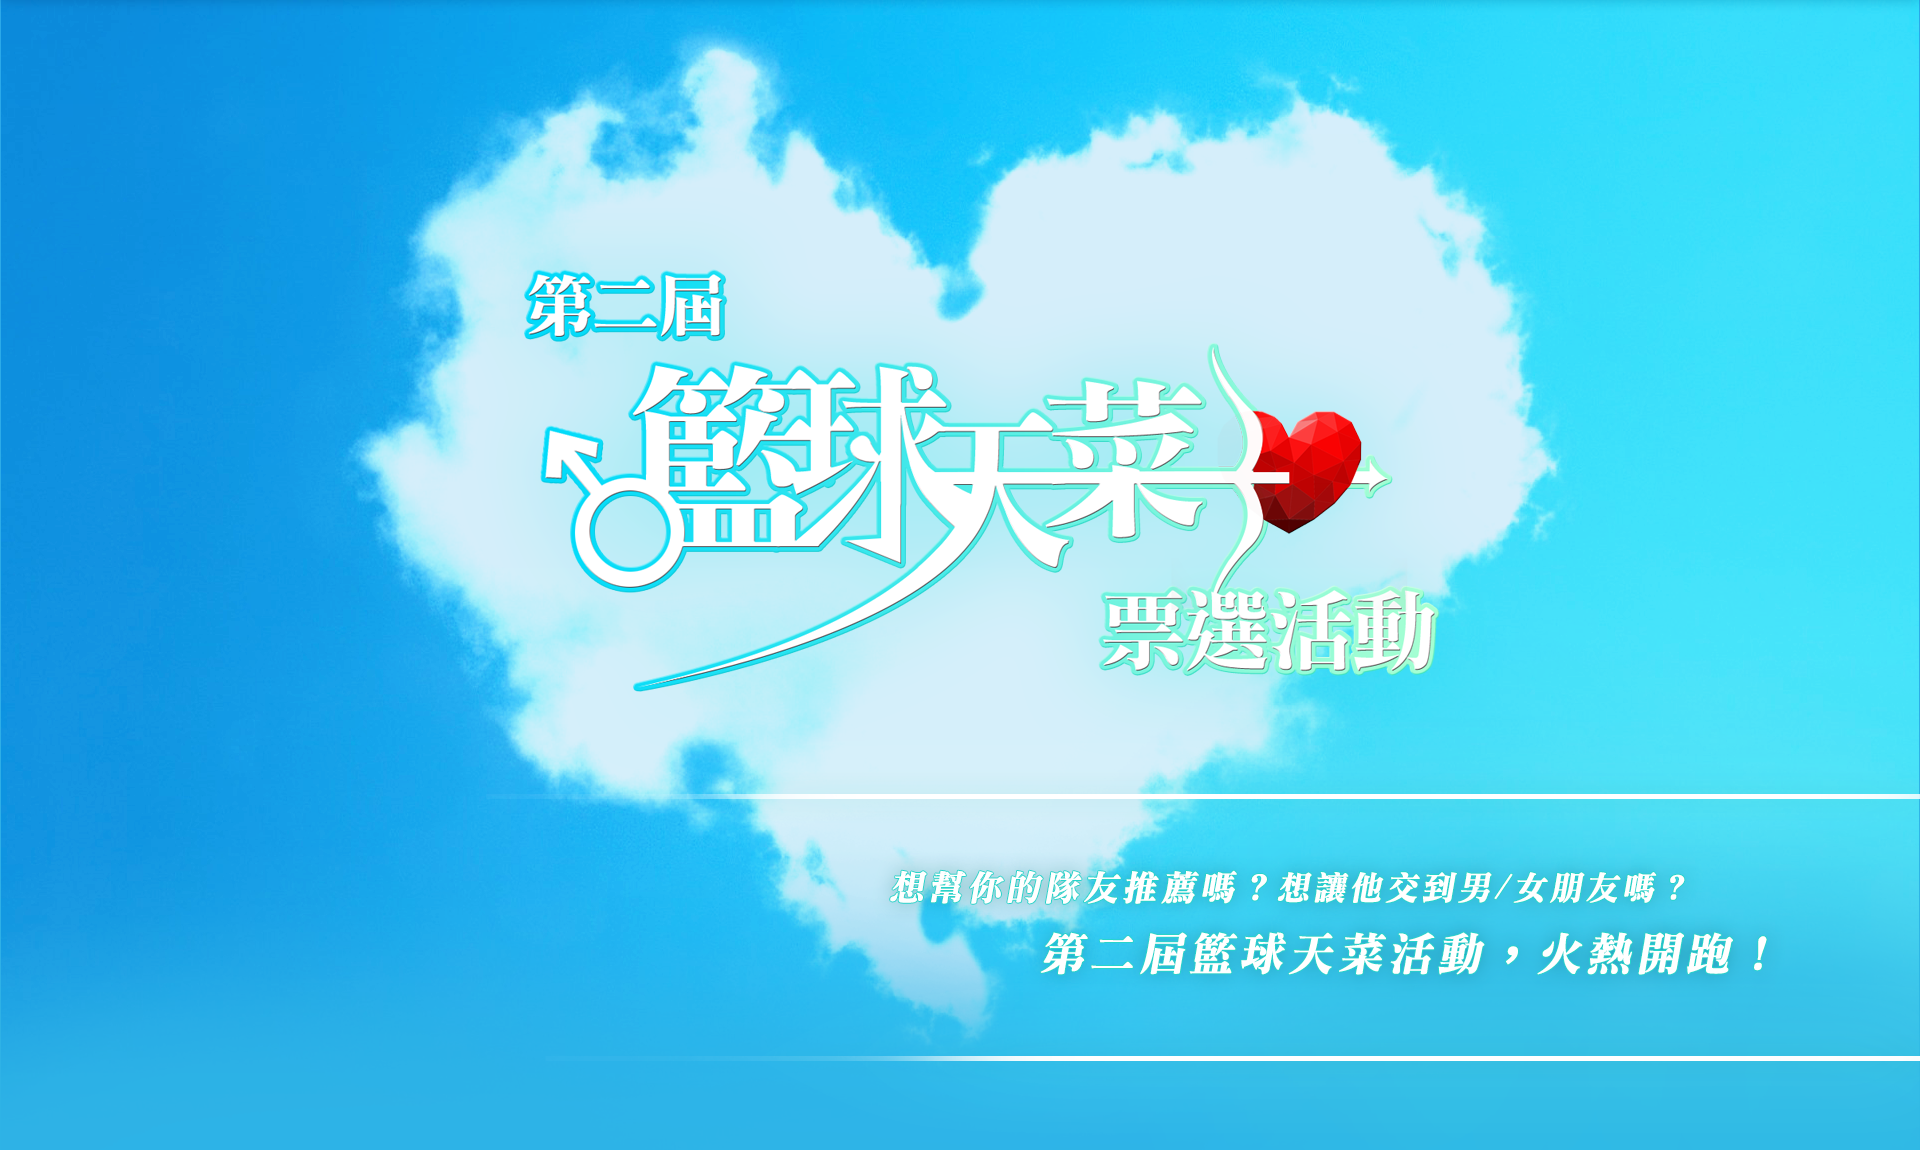
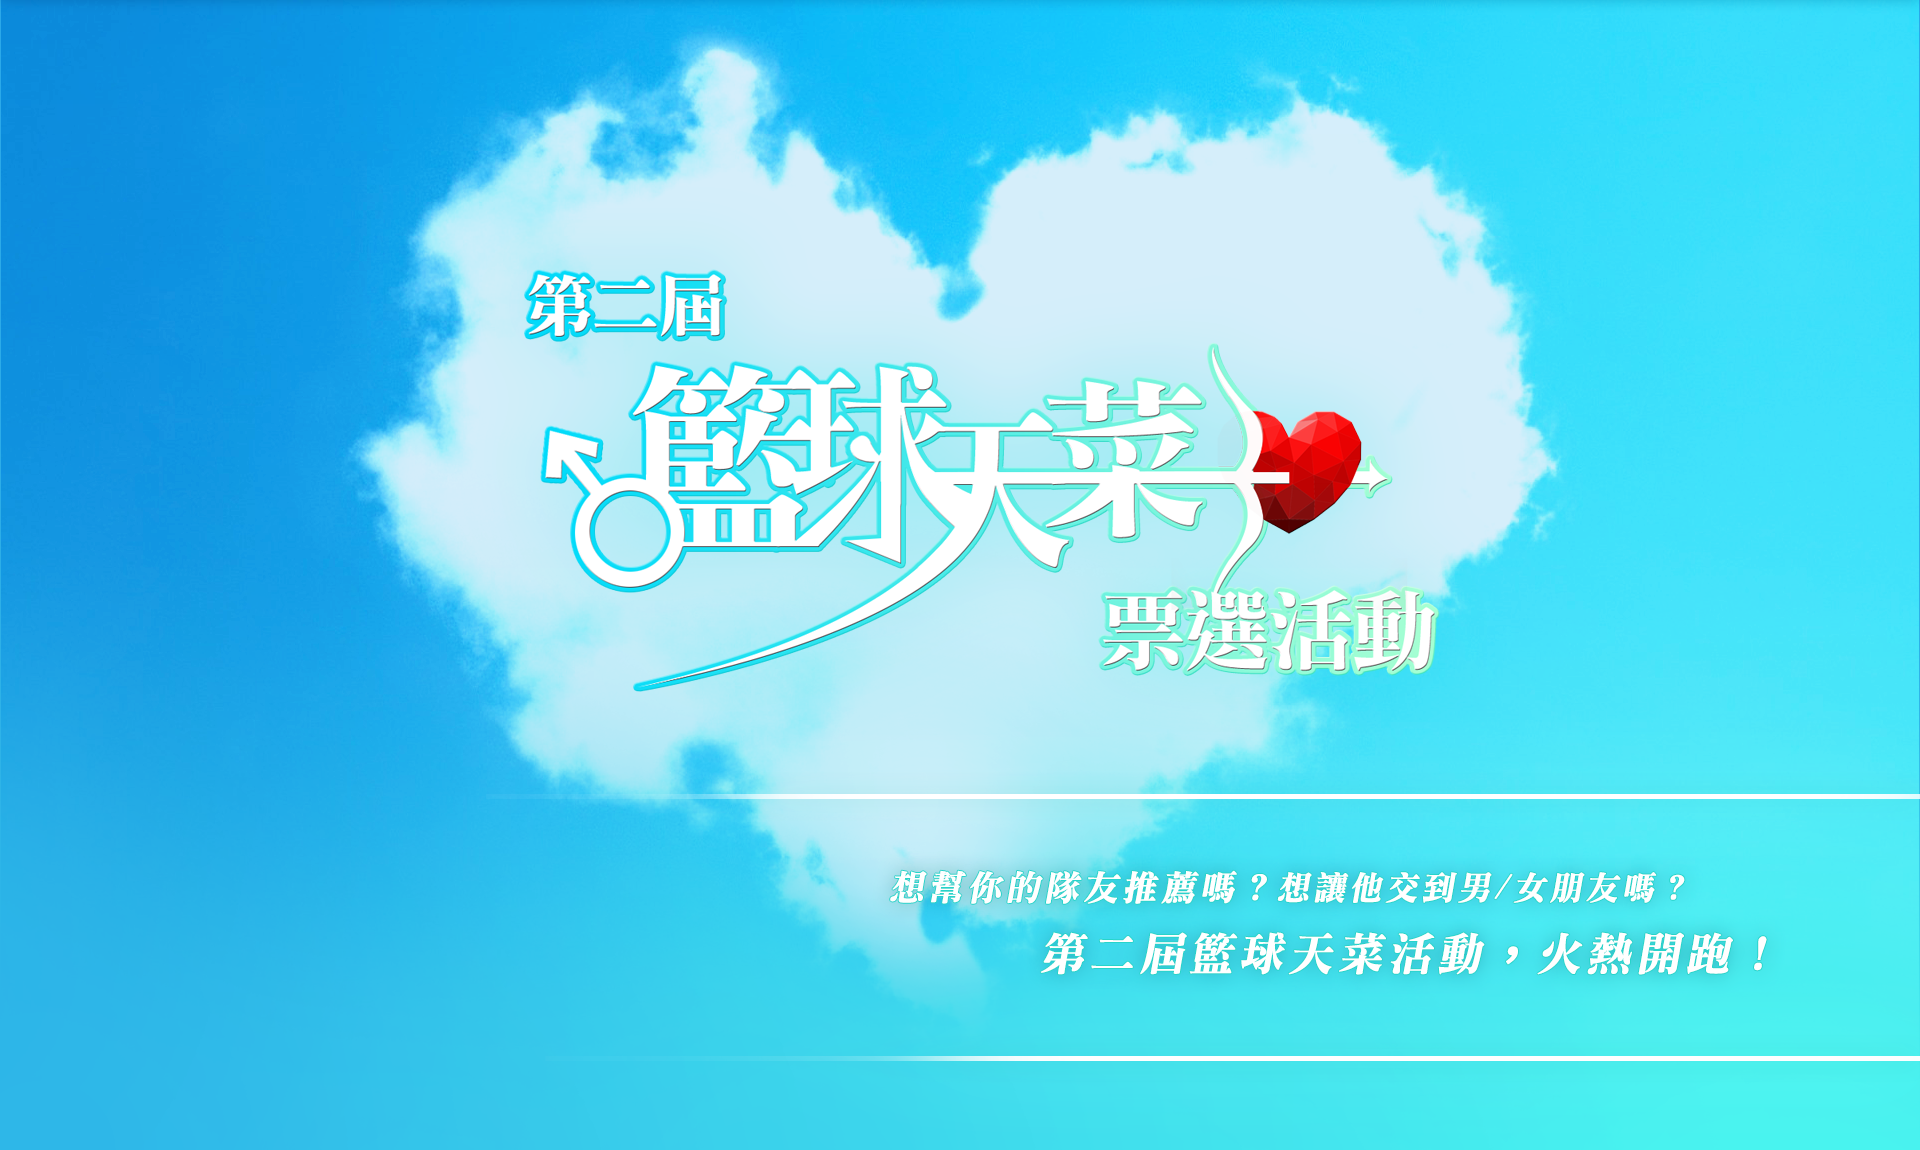
update hbl-vote相關頁面

Changed region(s): [[0.25, 0.5783, 1.0, 1.0], [0.0, 0.6696, 0.0625, 0.8217]]

diff --git a/hbl-vote/winner.html b/hbl-vote/winner.html
@@ -76,17 +76,17 @@
             <p>活動主旨：票選出你心目中的第一名，用你的力量，為他們應援打氣吧！</p>
             <p>活動時間：3/28 ~ 4/15</p>
             <p>活動獎品：1. 凡參加預測活動者，將抽出5位贈送：</p>
-            <p class="blank"> MOLTEN籃球、VEGA籃球運動襪及熊讚好禮。</p>
-            <p class="blank" style="font-size:23px">2. 成功預測男女冠軍隊伍者，加碼各抽出2名贈送ASICS亞瑟士相關商品！
+            <p class="blank"> MOLTEN 籃球、 VEGA 籃球運動襪及熊讚好禮。</p>
+            <p class="blank" style="font-size:23px">2. 成功預測男女冠軍隊伍者，加碼各抽出2名贈送 ASICS 亞瑟士相關商品！
             </p>
-            <p>投票方式：每個FB帳號一天限投1票，每天可投一次。</p>
+            <p>投票方式：每個 FB 帳號一天限投1票，每天可投一次。</p>
             <p>開獎時間：4/25</p>
         </div>
         <div class="content-phone">
-            <p class="before">活動主旨：票選出你心目中的第一名，用你的力量，為他們應援打氣吧！</p>
+            <p class="before">活動主旨：</p><p>票選出你心目中的第一名，用你的力量，為他們應援打氣吧！</p>
             <p class="before">活動時間：3/28 ~ 4/15</p>
-            <p class="before">活動獎品：1. 凡參加預測活動者，將抽出5位贈送MOLTEN籃球、VEGA籃球運動襪及熊讚好禮。2. 成功預測男女冠軍隊伍者，加碼各抽出2名贈送ASICS亞瑟士相關商品！</p>
-            <p class="before">投票方式：每個FB帳號一天限投1票，每天可投一次。</p>
+            <p class="before">活動獎品： </p><p>1. 凡參加預測活動者，將抽出 5 位贈送 MOLTEN 籃球、 VEGA 籃球運動襪及熊讚好禮。</p><p>2. 成功預測男女冠軍隊伍者，加碼各抽出 2 名贈送 ASICS 亞瑟士相關商品！</p>
+            <p class="before">投票方式：</p><p>每個FB帳號一天限投 1 票，每天可投一次。</p>
             <p class="before">開獎時間：4/25</p>
         </div>
         <div class="text">
@@ -98,14 +98,13 @@
                 <div class="img">
                     <div class="fb-like" data-href="https://www.facebook.com/happytv.com.tw/" data-layout="button_count" data-action="like" data-size="large" data-show-faces="true" data-share="true"></div>
                 </div>
-                <p>Step 2. HappyTV YouTube 追蹤+開鈴鐺</p>
+                <p>Step 2. HappyTV YouTube 追蹤 + 開鈴鐺</p>
                 <div class="img">
                     <a href="http://www.youtube.com/channel/UCvKez7HK8fOyCMPh2TN0hvQ?sub_confirmation=1" target='_blank'>
                         <img src="images/youtube_01.png">
                     </a>
                 </div>
-                <p >Step 3. 點選自己想應援打氣的隊伍，為他們分享集氣並按下送出，</p>
-                   <p class="blank">即完成投票步驟。</p>
+                <p >Step 3. 點選自己想應援打氣的隊伍，為他們分享集氣並按下送出，即完成投票步驟。</p>
             </div>
         </div>
         <div class="fb-button" onclick='loginFacebook()'>
@@ -153,7 +152,7 @@
             </div>
             <div class="vote-box">
                 <div class="img-box">
-                    <img src="images/winner-boy_04.JPG">
+                    <img src="images/winner-boy_04.jpg">
                 </div>
                 <div class="text-wrapper">
                     <p>4. 海星高中</p>
@@ -165,7 +164,7 @@
             </div>
             <div class="vote-box">
                 <div class="img-box">
-                    <img src="images/winner-boy_05.JPG">
+                    <img src="images/winner-boy_05.jpg">
                 </div>
                 <div class="text-wrapper">
                     <p>5. 慧燈高中</p>
@@ -177,7 +176,7 @@
             </div>
             <div class="vote-box">
                 <div class="img-box">
-                    <img src="images/winner-boy_06.JPG">
+                    <img src="images/winner-boy_06.jpg">
                 </div>
                 <div class="text-wrapper">
                     <p>6. 興華高中</p>
@@ -189,7 +188,7 @@
             </div>
             <div class="vote-box">
                 <div class="img-box">
-                    <img src="images/winner-boy_07.JPG">
+                    <img src="images/winner-boy_07.jpg">
                 </div>
                 <div class="text-wrapper">
                     <p>7. 醒吾高中</p>
@@ -201,7 +200,7 @@
             </div>
             <div class="vote-box">
                 <div class="img-box">
-                    <img src="images/winner-boy_08.JPG">
+                    <img src="images/winner-boy_08.jpg">
                 </div>
                 <div class="text-wrapper">
                     <p>8. 善化高中</p>
@@ -260,7 +259,7 @@
             </div>
             <div class="vote-box">
                 <div class="img-box">
-                    <img src="images/winner-girl_04.jpg">
+                    <img src="images/winner-girl_04.JPG">
                 </div>
                 <div class="text-wrapper">
                     <p>4. 桃市陽明</p>

diff --git a/hbl-vote/css/favorite-star.css b/hbl-vote/css/favorite-star.css
@@ -20,12 +20,12 @@ p {
 }
 
 body {
-/* Permalink - use to edit and share this gradient: http://colorzilla.com/gradient-editor/#2db4e8+35,4aeecd+100 */
+/* Permalink - use to edit and share this gradient: http://colorzilla.com/gradient-editor/#2db4e8+0,4efcf0+100 */
 background: #2db4e8; /* Old browsers */
-background: -moz-linear-gradient(-45deg, #2db4e8 35%, #4aeecd 100%); /* FF3.6-15 */
-background: -webkit-linear-gradient(-45deg, #2db4e8 35%,#4aeecd 100%); /* Chrome10-25,Safari5.1-6 */
-background: linear-gradient(135deg, #2db4e8 35%,#4aeecd 100%); /* W3C, IE10+, FF16+, Chrome26+, Opera12+, Safari7+ */
-filter: progid:DXImageTransform.Microsoft.gradient( startColorstr='#2db4e8', endColorstr='#4aeecd',GradientType=1 ); /* IE6-9 fallback on horizontal gradient */
+background: -moz-linear-gradient(left, #2db4e8 0%, #4efcf0 100%); /* FF3.6-15 */
+background: -webkit-linear-gradient(left, #2db4e8 0%,#4efcf0 100%); /* Chrome10-25,Safari5.1-6 */
+background: linear-gradient(to right, #2db4e8 0%,#4efcf0 100%); /* W3C, IE10+, FF16+, Chrome26+, Opera12+, Safari7+ */
+filter: progid:DXImageTransform.Microsoft.gradient( startColorstr='#2db4e8', endColorstr='#4efcf0',GradientType=1 ); /* IE6-9 */
 }
 
 
@@ -115,14 +115,14 @@ display: none;
 
 
 .text .title {
-    padding-left: 85px;
+    padding-left: 100px;
     width: 100%;
 }
 
 
 .text .title p {
-    font-size: 40px;
-    font-style: italic;
+    font-size: 37px;
+    font-style: italic;;
     color: white;
     letter-spacing: 3px;
 }
@@ -149,12 +149,11 @@ display: none;
 
 
 .text .way p {
-    font-size: 35px;
+    font-size: 28px;
     color: white;
     font-weight: 500;
     letter-spacing: 3px;
     line-height: 70px;
-    font-style: italic;
     display: inline-block;
 }
 
@@ -171,6 +170,13 @@ display: none;
 .text .blank {
     padding-left: 155px;
 }
+
+.text .blank2 {
+    padding-left: 125px;
+}
+
+
+
 
 
 
@@ -282,14 +288,15 @@ display: block;
 
 
 .text .title p {
-    font-size: 25px;
+    font-size: 24px;
+    letter-spacing: 1px;
 }
 
 
 
 .text .content-phone,
 .text .way {
-    padding-left: 40px;
+    padding-left: 30px;
     padding-right: 30px;
     padding-top: 20px;
     padding-bottom: 50px;
@@ -297,13 +304,13 @@ display: block;
 
 
 .text .content-phone p {
-    font-size: 19px;
+    font-size: 18px;
     color: white;
-    font-weight: 400;
+    font-weight: 600;
     letter-spacing: 0px;
-    line-height: 35px;
+    line-height: 40px;
     text-align: justify;
-    margin-bottom: 5px;
+    margin-bottom: 10px;
 }
 
 .text .content-phone .before{
@@ -319,9 +326,9 @@ padding-top:10px;
 
 
 .text .way p {
-    font-size: 18px;
+    font-size: 17px;
     color: white;
-    font-weight: 400;
+    font-weight: 600;
     letter-spacing: 1px;
     line-height: 35px;
     text-align: justify;
@@ -335,7 +342,7 @@ padding-top:10px;
 .text .way .img {
 	display: block;
  text-align: center;
- margin-bottom: 0px;
+ margin: 20px;
 
 }
 
@@ -478,14 +485,13 @@ cursor: pointer;
 .vote-area .title-boy p {
     padding: 10px 0;
     font-size: 30px;
-    color: white;
+    color: #73dadf;
     font-weight: 600;
     letter-spacing: 3px;
     text-align: center;
         padding: 15px;
-    background-color: #79d6ed;
+    background-color: white;
     border-radius: 5px;
-    box-shadow: 0px 0px 5px rgba(86,179,183,1);
 }
 
 .vote-area .title-boy p::before{
@@ -494,12 +500,6 @@ cursor: pointer;
     padding-right: 20px;
     font-size: 35px;
     }
-
-
-.vote-area .title-girl p {
-    background-color: #73dadf;
-     
-}
 
 
 
@@ -523,7 +523,7 @@ display: none;
 }
 
 .vote-area .send-out p:hover{
-	 background-color: #13a49f;
+	 background-color: #17c1cc;
 	 color: white;
 	 cursor: pointer;
 
@@ -645,13 +645,24 @@ font-weight: 600;
 .vote-area .vote-box .button-box p.selected,
 .vote-area .vote-box .button-box p:hover{
 cursor: pointer;
-background-color: #13a49f;
+background-color: #17c1cc;
 color: white;
 }
 
 
 /* go-top */
 
+
+#gotop img {
+    display: block;
+    position:fixed;
+    bottom: 55px;
+    right:0;
+}
+
+
+
+@media (max-width: 767px) {
 
 #gotop img {
 	display: block;
@@ -661,7 +672,7 @@ color: white;
 }
 
 
-
+}
 
 
 

diff --git a/hbl-vote/favorite-star.html b/hbl-vote/favorite-star.html
@@ -97,11 +97,15 @@
 
 
         <div class="content-phone">
-            <p class="before">活動主旨：想讓你的帥隊友更有名嗎？想看看這屆球員中有沒有你的天菜嗎？</p>
+            <p class="before">活動主旨：</p>
+
+                <p>想讓你的帥隊友更有名嗎？想看看這屆球員中有沒有你的天菜嗎？</p>
             <p class="blank">快來參加籃球天菜票選活動，就有機會跟你的菜近距離接觸見面喔！</p>
             <p class="before">活動時間：4/2 ~ 4/20</p>
-            <p class="before">活動獎品：1. 參與並投票給籃球天菜最後優勝者，將抽出男女各一位贈送 Molten 籃球一顆。2. 籃球天菜男女獲勝者可獲得 Creative Sound Blasterx H3 雷神版耳麥各一副。</p>
-                        <p class="before">投票方式：每個 FB 帳號一天限投5票，每天可投一次。</p>
+            <p class="before">活動獎品：</p><p>1. 參與並投票給籃球天菜最後優勝者，將抽出男女各一位贈送 Molten 籃球一顆。</p><p>
+
+            2. 籃球天菜男女獲勝者可獲得 Creative Sound Blasterx H3 雷神版耳麥各一副。</p>
+                        <p class="before">投票方式：</p><p>每個 FB 帳號一天限投5票，每天可投一次。</p>
                          <p class="before">開獎時間：4/25</p>
         </div>
 
@@ -122,7 +126,7 @@
                         <img src="images/youtube_01.png">
                     </a>
                 </div>
-                <p>Step 3.點選自己想應援打氣的籃球天菜，為他們分享集氣並按下送出，即完成投票步驟。</p>
+                <p>Step 3. 點選自己想應援打氣的天菜，為他們分享集氣並按下送出，即完成投票步驟。</p>
             </div>
         </div>
 <div class="fb-button" onclick='loginFacebook()'>

diff --git a/hbl-vote/css/winner.css b/hbl-vote/css/winner.css
@@ -287,7 +287,7 @@ display: block;
 
 .text .content-phone,
 .text .way {
-    padding-left: 40px;
+    padding-left: 35px;
     padding-right: 30px;
     padding-top: 20px;
     padding-bottom: 50px;
@@ -295,12 +295,13 @@ display: block;
 
 
 .text .content-phone p {
-    font-size: 15px;
-    font-weight: 900;
+    font-size: 16px;
+    font-weight: 600;
     letter-spacing: 0px;
-    line-height: 35px;
+    line-height: 40px;
     text-align: justify;
-    margin-bottom: 5px;
+    margin-bottom: 10px;
+    font-style: italic;
 }
 
 .text .content-phone .before{
@@ -316,11 +317,12 @@ padding-top:10px;
 
 
 .text .way p {
-    font-size: 14px;
+    font-size: 16px;
     font-weight: 900;
     letter-spacing: 1px;
     line-height: 35px;
     text-align: justify;
+    margin-bottom: 20px;
 }
 
 .text .blank {
@@ -331,7 +333,7 @@ padding-top:10px;
 .text .way .img {
 	display: block;
  text-align: center;
- margin-bottom: 10px;
+ margin-bottom: 20px;
 }
 
 }
@@ -646,12 +648,25 @@ color: black;
 
 
 #gotop img {
-	display: block;
-	position:fixed;
-	bottom: 5px;
-	right:0;
+    display: block;
+    position:fixed;
+    bottom: 55px;
+    right:0;
 }
 
+
+
+@media (max-width: 767px) {
+
+#gotop img {
+    display: block;
+    position:fixed;
+    bottom: 5px;
+    right:0;
+}
+
+
+}
 
 
 
